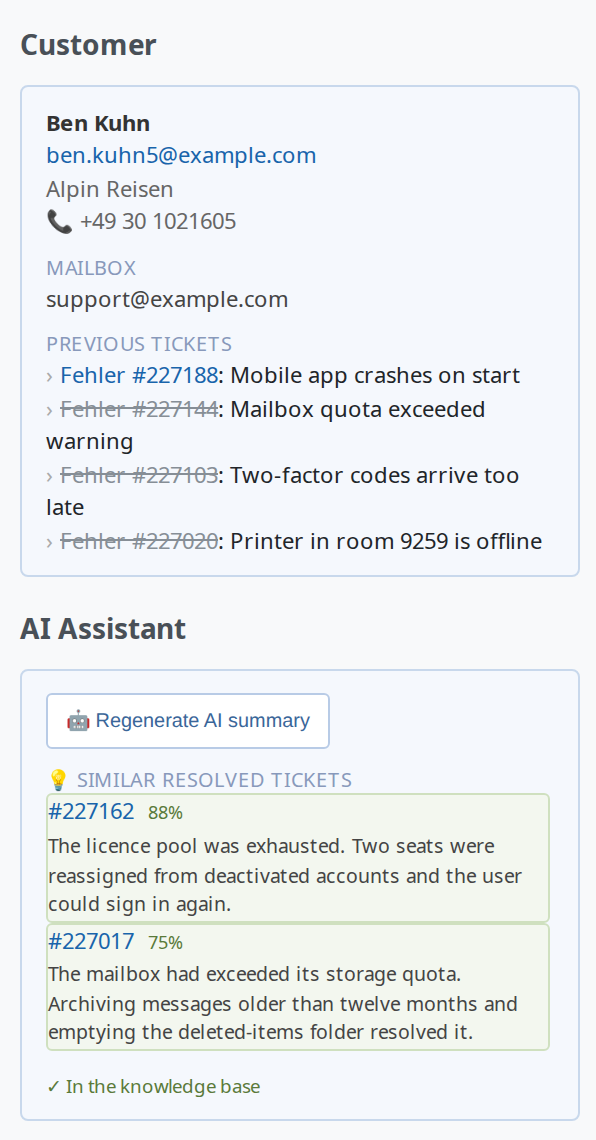
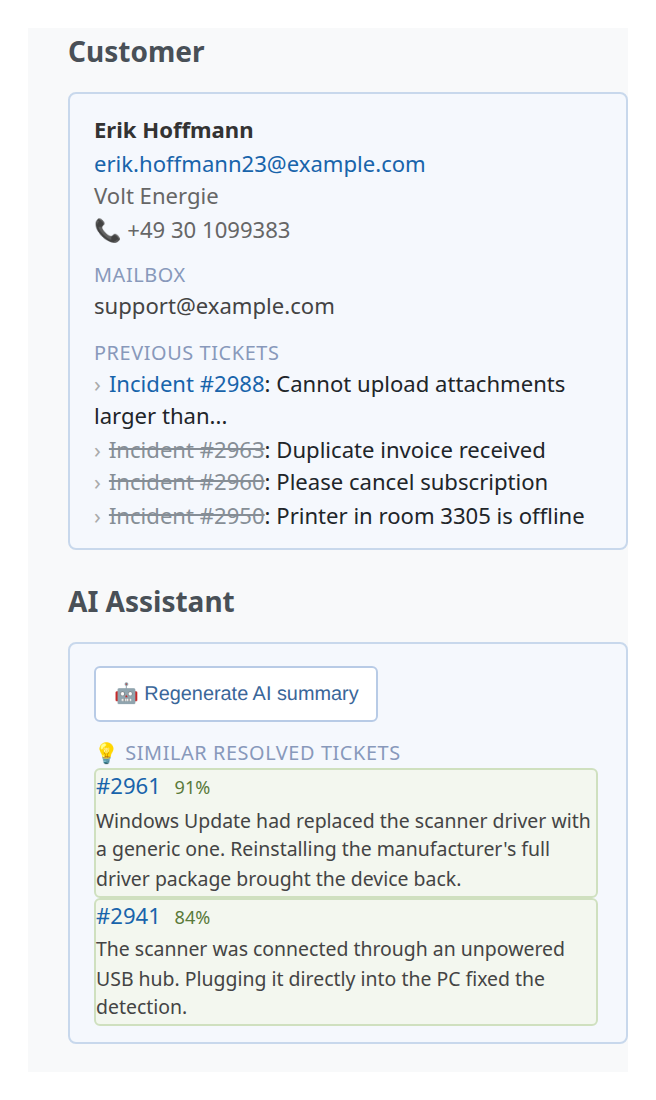
docs: fresh screenshots, including AI answer drafts and blocked attachments (#37)
Recaptured against 0.16.0 on a clean demo database, English and German.
The previous English set came from a restore of a German production
database and showed German status and tracker names ("Gelöst", "Neu",
"Fehler").

- 06-reply shows the armed reply block from 0.14 (hazard border, signature
  after the note) and the original-recipients offer from 0.11
- new 12-ai-answer-draft (0.12, 0.15) and 13-attachment-block (0.13), with
  README sections in both languages
- alt texts for 04 and 06 describe the new images

The AI answer in 12 is a canned response: the capture stack has no
provider, so the request is answered by the capture script.

Changed region(s): [[0.0302, 0.0309, 0.9664, 0.9891], [0.9664, 0.0927, 0.9966, 0.4945], [0.9664, 0.5873, 0.9966, 0.9582]]

diff --git a/README.de.md b/README.de.md
@@ -158,8 +158,10 @@ Tickets](docs/screenshots/de/03-contacts.png)
 Die Ticketseite zeigt, wer geschrieben hat, aus welchem Postfach und wie beide SLA-Uhren
 stehen.
 
-![Ticketseite mit Helpdesk-Infozeile: Absendername und -adresse, Ursprungspostfach sowie
-zwei grüne SLA-Chips für Reaktions- und Lösungszeit](docs/screenshots/de/04-issue-detail.png)
+![Ticketseite mit Helpdesk-Infozeile: ein SLA-Chip für die Reaktionszeit (erfüllt) und
+einer für die Lösungszeit (fällig), Name und Adresse des Absenders und die Dateien der
+Mail — ein Signaturlogo, zwei Icons und der Screenshot des Kunden, jede mit einer
+Schaltfläche „Sperren“](docs/screenshots/de/04-issue-detail.png)
 
 Die Seitenleiste ergänzt die Kundenkarte, frühere Tickets des Kunden und – bei aktiver
 Wissensbasis – Lösungsvorschläge aus ähnlichen gelösten Tickets.
@@ -171,12 +173,34 @@ Trefferquote](docs/screenshots/de/05-issue-sidebar.png)
 
 ### Antwort an den Kunden
 
-Antworten werden im gewohnten Redmine-Notizfeld geschrieben; das Helpdesk-Panel ergänzt
-Empfänger und eine Vorschau der angehängten Signatur.
+Antworten werden im gewohnten Redmine-Notizfeld geschrieben. Solange die Antwort
+eingeschaltet ist, bilden Empfänger, Notiz und die Vorschau der angehängten Signatur einen
+Block mit Warnrahmen – er ist nicht mit einer internen Notiz zu verwechseln. Wen der
+Kunde in An oder Cc hatte, wird neben den Feldern angeboten.
 
-![Antwort-Panel im Bearbeiten-Formular eines Tickets: Auswahlfeld „Als E-Mail an Kunden
-senden“ mit Empfänger, An/CC/BCC-Feldern und einer Vorschau der
-Signatur](docs/screenshots/de/06-reply.png)
+![Die scharf geschaltete Kundenantwort im Bearbeiten-Formular: ein Block mit diagonalem
+Warnrahmen, darin Empfänger, An/CC/BCC-Felder mit dem Angebot „Originalempfänger“, die
+Dateien des Tickets zum Anhängen, die Notiz und danach die
+Signaturvorschau](docs/screenshots/de/06-reply.png)
+
+### KI-Antwortentwurf
+
+Bei aktiver Wissensbasis entwirft die Notiz-Werkzeugleiste die Antwort aus ähnlichen
+gelösten Tickets und nennt die Tickets, auf denen sie beruht.
+
+![Ein KI-Antwortentwurf in der scharf geschalteten Kundenantwort: nummerierte Schritte für
+einen Scanner, der nicht mehr erkannt wird, eine Zeile „Grundlage“ mit zwei gelösten
+Tickets und ihrer Relevanz, und der Hinweis, dass der Text von einer KI stammt und vor dem
+Senden zu prüfen ist](docs/screenshots/de/12-ai-answer-draft.png)
+
+### Signaturlogos sperren
+
+Signaturlogos und Icons lassen sich einmal je Projekt sperren, statt sie auf jedem Ticket
+zu löschen; verglichen wird der Dateiinhalt, nicht der Name.
+
+![Die Dateien eines Tickets: ein Signaturlogo, zwei Social-Media-Icons und der
+eigentliche Screenshot des Kunden, jede Zeile mit einer Schaltfläche
+„Sperren“](docs/screenshots/de/13-attachment-block.png)
 
 ### SLA-Statistik
 

diff --git a/README.md b/README.md
@@ -157,8 +157,10 @@ address, company, phone number, ticket count and date of the last ticket](docs/s
 
 The ticket page shows who wrote, from which mailbox, and how both SLA clocks stand.
 
-![Ticket page with the helpdesk info bar: sender name and address, the origin mailbox and
-two green SLA chips for reaction and solution time](docs/screenshots/en/04-issue-detail.png)
+![Ticket page with the helpdesk info bar: an SLA chip for the reaction time (met) and one
+for the solution time (due), the sender's name and address, and the mail's files — a
+signature logo, two icons and the customer's screenshot, each with a Block
+button](docs/screenshots/en/04-issue-detail.png)
 
 The sidebar adds the customer card, the customer's earlier tickets and — if the knowledge
 base is enabled — proposed solutions from similar resolved tickets.
@@ -169,11 +171,33 @@ resolved tickets, each with a match score](docs/screenshots/en/05-issue-sidebar.
 
 ### Replying to the customer
 
-Replies are written in the normal Redmine note field; the helpdesk panel adds recipients
-and a preview of the signature that will be appended.
+Replies are written in the normal Redmine note field. While the reply is switched on, the
+recipients, the note and the preview of the signature that will be appended form one
+block with a hazard border, so it cannot be mistaken for an internal note. Whoever the
+customer had in To or Cc is offered next to the fields.
 
-![Reply panel inside the ticket edit form: a "send as email to customer" checkbox with the
-recipient, To/CC/BCC fields and a preview of the signature](docs/screenshots/en/06-reply.png)
+![The customer reply armed in the ticket edit form: one block framed by a diagonal hazard
+border, holding the recipient, To/CC/BCC fields with an "original recipients" offer, the
+ticket's files to attach, the note, and the signature preview after
+it](docs/screenshots/en/06-reply.png)
+
+### AI answer draft
+
+With the knowledge base enabled, the note toolbar drafts the reply from similar resolved
+tickets and names the tickets it is based on.
+
+![An AI answer draft in the armed customer reply: numbered steps for a scanner that
+stopped being recognised, a "Based on" line citing two resolved tickets with their
+relevance, and a warning that the text was generated by AI and must be checked before
+sending](docs/screenshots/en/12-ai-answer-draft.png)
+
+### Blocking signature logos
+
+Signature logos and icons can be blocked once per project instead of deleted on every
+ticket; the match is the file content, not its name.
+
+![A ticket's files: a signature logo, two social-media icons and the customer's actual
+screenshot, each row with a Block button](docs/screenshots/en/13-attachment-block.png)
 
 ### SLA statistics
 
